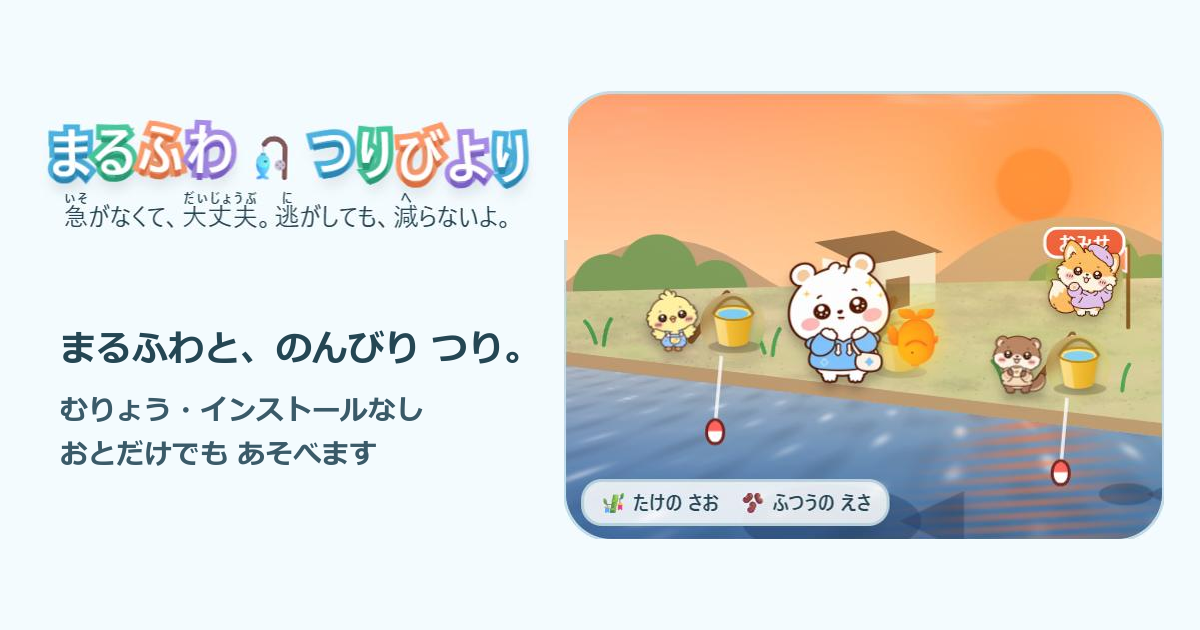
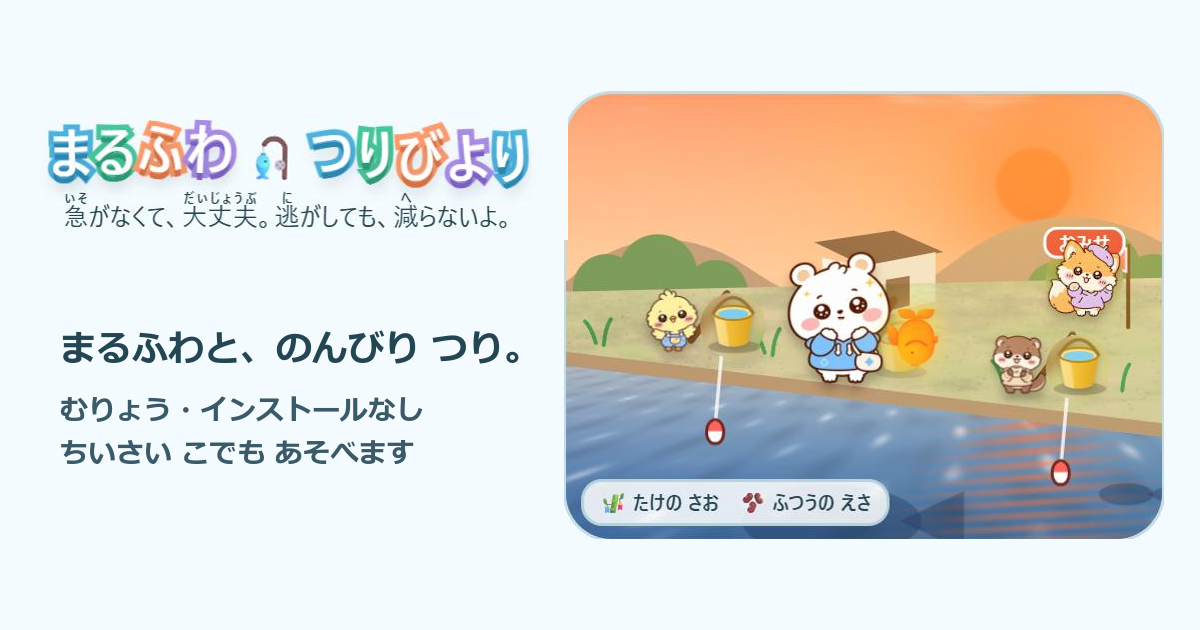
意見を入れる・その2：連打と狙いの釣り合い、最初の1匹、おいわい、まぼろしの日
- ひいた後に短い「ぷにっ」休み。連打しても速くならない（連打2.1秒・狙い3.1秒）
- 「おしい」が続くと窓が広がる、「ぴったり」で戻る
- 「ぴったり」のはんこ、1つ多く引ける
- 最初の1匹はすぐ来て、すぐ釣れる。かかる前に「ちょんちょん」
- 「なげる」を画面の下に留める。場所は折りたたむ
- きりのいい数のおいわい（10・30・50・100・300・500・1000）
- まぼろしの日（月に1日）、30種そろえた人は会いやすい、きょうのラッキーさかな
- 新しい釣り場が開いたら、そのまま行けるボタン
- スペース・エンターで投げる・引く。音の釣り合いを直す。読み仮名を大きく
- リンクの絵の文を「ちいさい こでも あそべます」に

Changed region(s): [[0.0308, 0.6937, 0.3392, 0.754]]

diff --git a/index.html b/index.html
@@ -99,9 +99,9 @@ main{position:relative;background:#f4fbff;border-radius:32px;margin-top:10px;mar
 #take-photo[hidden]{display:none}
 /* ながめる：ボタンを しまって、けしきだけ。なにも しなくて いい じかん */
 #gaze{--c1:#eee6ff;--c2:#b9a2ee;--side:#8a6bd0;--ink:#33205f;min-height:68px;padding:4px 14px;font-size:.95rem}
-body.gazing main > *:not(#scene):not(.actions):not(#status){display:none !important}
+body.gazing main > *:not(#scene):not(.sub-actions):not(#status){display:none !important}
 body.gazing main{background:none;box-shadow:none;padding-top:4vh}
-body.gazing #main-button,body.gazing #take-photo{display:none}
+body.gazing #take-photo,body.gazing #easy{display:none}
 body.gazing .actions{justify-content:center;margin-top:14px}
 body.gazing #gaze{min-height:52px;opacity:.85}
 body.gazing #status{color:#244653;background:#ffffffc9;border-radius:14px;padding:4px 10px;display:inline-block}
@@ -251,6 +251,14 @@ body.gazing #scene{box-shadow:0 18px 40px #24465340}
 #easy[aria-pressed=true]{--c1:#c9f7e4;--c2:#4fcf96;--side:#2b8f5f}
 #scene[data-easy=true] #reel .ring{display:none}
 #scene[data-easy=true] #reel .target{background:#ffe14dd9;box-shadow:0 0 0 5px #fff6a8,0 0 22px 8px #ffd34d}
+/* ぷにっ やすみ：ひいた あとの みじかい あいだ、わと ボタンが すこし つぶれて、うすく なる */
+#reel[data-rest=true] .back{scale:.94 .9;transition:scale .08s}
+#reel[data-rest=true] .ring{opacity:.45}
+#main-button[data-rest=true]{transform:translateY(4px) scale(.98,.93);filter:saturate(.6) brightness(1.08)}
+#go-area{--c1:#c9f7e4;--c2:#6fdcb0;--side:#38a87e;--ink:#0f4a36;min-height:40px;padding:2px 14px;font-size:.85rem;margin-top:3px}
+#go-area[hidden]{display:none}
+#card .stamp{display:inline-block;margin:1px 2px;padding:0 8px;border-radius:10px;background:#ffe14d;border:2px solid #a56c19;color:#593700;font-weight:900;font-size:.74rem;rotate:-3deg}
+@media(max-width:380px){#areas{grid-template-columns:repeat(2,1fr)}}
 #swim-tag{position:absolute;left:50%;top:-16%;transform:translateX(-50%);white-space:nowrap;font-weight:900;font-size:.78rem;color:#fff;background:#17323dcc;border-radius:10px;padding:1px 9px}
 .menu-label{font-weight:800;font-size:.85rem;margin:14px 0 6px;color:#3a5a68}
 .keep{margin-top:8px}
@@ -283,7 +291,14 @@ body.gazing #scene{box-shadow:0 18px 40px #24465340}
 #main-button[data-hot=true]{--c1:#ffa98f;--c2:#ee5a3c;--side:#b23a20;text-shadow:0 2px 0 #9a2f18}
 #status{min-height:1.7em;text-align:center;margin:10px 0 0;font-size:.95rem}
 .note{text-align:center;font-size:.85rem;color:#506874;line-height:2.3;margin-top:18px}
-rt{font-size:.5em;letter-spacing:.02em;font-weight:700}
+rt{font-size:.62em;letter-spacing:.02em;font-weight:700}
+.lead{font-size:1rem}
+#float[data-nibble=true]{animation:nibble .22s ease-in-out 3 !important}
+@keyframes nibble{50%{translate:0 6px}}
+/* 「なげる」は、がめんの したに とめる。スクロール しても、つれた あとも、おなじ ばしょに ある */
+.actions{position:sticky;bottom:0;z-index:8;padding:10px 0 12px;margin:6px 0 0;background:linear-gradient(#f4fbff00,#f4fbff 28%)}
+.sub-actions{display:flex;flex-wrap:wrap;gap:12px;margin:4px 0 6px}
+body.gazing .sub-actions{justify-content:center;margin-top:14px}
 .lead{line-height:2.1}
 #card h2{line-height:1.75}
 #guide img{width:34px;height:34px;filter:drop-shadow(0 2px 2px #0004)}
@@ -432,6 +447,7 @@ dialog .close{display:block;margin:auto;min-width:160px}
       <div class="fish" id="card-fish" aria-hidden="true"></div>
       <div class="line"><h2 id="card-name"></h2><p id="card-size"></p></div>
       <p id="card-tags"></p>
+      <button id="go-area" type="button" hidden></button>
       <p id="card-word"></p>
     </div>
   </div>
@@ -442,7 +458,7 @@ dialog .close{display:block;margin:auto;min-width:160px}
     <button id="easy" type="button" aria-pressed="false">らくちん：OFF</button>
     <button id="gaze" type="button" aria-pressed="false">ながめる</button>
   </div>
-  <p id="status" role="status" aria-live="polite">きいろい バケツを おすと、ばしょを かえられるよ。</p>
+  <p id="status" role="status" aria-live="polite">「なげる」を おしてね。</p>
 
   <p class="note"><ruby>時間<rt>じかん</rt></ruby>で <ruby>出<rt>で</rt></ruby>やすい <ruby>魚<rt>さかな</rt></ruby>が <ruby>変<rt>か</rt></ruby>わるよ（<ruby>朝<rt>あさ</rt></ruby>・<ruby>昼<rt>ひる</rt></ruby>・<ruby>夕方<rt>ゆうがた</rt></ruby>・<ruby>夜<rt>よる</rt></ruby>）。<br>
   <ruby>記録<rt>きろく</rt></ruby>は この <ruby>端末<rt>たんまつ</rt></ruby>の <ruby>中<rt>なか</rt></ruby>だけに <ruby>残<rt>のこ</rt></ruby>ります。ログインも インストールも いりません。<br>
@@ -539,7 +555,13 @@ dialog .close{display:block;margin:auto;min-width:160px}
   [['つきあかりのきんぎょ', '🐠', 20, 40, 'L', '{月明|つきあ}かりの{金魚|きんぎょ}'], ['ほしくずのこい', '🐟', 60, 120, 'R', '{星屑|ほしくず}の{鯉|こい}'],
     ['しんじゅのたい', '🐠', 40, 90, 'H', '{真珠|しんじゅ}の{鯛|たい}'], ['にじいろくじら', '🐳', 300, 600, 'B', '{虹色|にじいろ}{鯨|くじら}']
   ].forEach(([name, icon, min, max, area, kanji]) => FISH.push({id: FISH.length, name, icon, min, max, rare: 5, time: '', area, kanji, legend: true}));
-  const BASE = FISH.filter(f => !f.legend).length, LEGEND_ODDS = 1 / 8000;
+  // まぼろしの ひ：つきに 1にち だけ、まぼろしが でやすい（60かいに 1かい）。ひづけで きまるので、みんな おなじ ひ
+  const calendar = new Date(), mythDay = new URLSearchParams(location.search).get('mythday') === '1' || calendar.getDate() === (calendar.getFullYear() * 12 + calendar.getMonth()) * 5 % 27 + 1;
+  const BASE = FISH.filter(f => !f.legend).length, LEGEND_ODDS = mythDay ? 1 / 60 : 1 / 8000;
+  // きりの いい かずの おいわい。かずに よって、おこる ことが ちがう
+  const MILES = {10: ['👏', '10ぴきめ！ なかまが はくしゅ して いるよ。'], 30: ['🌸', '30ぴきめ！ はなびらが まって きたよ。'], 50: ['🎈', '50ぴきめ！ ふうせんが あがったよ。'], 100: ['🎆', '100ぴきめ！ はなびが あがったよ。'], 300: ['🌈', '300ぴきめ！ にじいろの かみふぶき だよ。'], 500: ['⭐', '500ぴきめ！ ほしが ふって きたよ。'], 1000: ['👑', '1000びきめ！ もう、つりの めいじんだね。']};
+  // きょうの ラッキーさかな：ひづけで きまる（みんな おなじ）。その こが 4ばい でやすい。「きょうは ○○の ひ」と、はなしの たねに なる
+  const LUCKY = FISH[(calendar.getFullYear() * 372 + calendar.getMonth() * 31 + calendar.getDate()) * 11 % BASE];
   const seenCount = () => Object.keys(save.fish).filter(id => FISH[id] && !FISH[id].legend).length;
   // {かんじ|よみ} を、ふりがなつきの もじに する
   function ruby(text) {
@@ -600,14 +622,16 @@ dialog .close{display:block;margin:auto;min-width:160px}
     // じかんの ふだは「でる／でない」では なく「でやすい／でにくい（3ばい）」。ゲーム開発司令部の てんけんで、
     // じかんに よっては 2〜3しゅるいしか でない わくが 9つ あった ため
     const myth = FISH.find(f => f.legend && f.area === save.area);
-    if (myth && (query.get('legend') === '1' || Math.random() < LEGEND_ODDS)) { wish = false; return myth; }
+    // シールちょうを 30しゅるい そろえた ひとは、まぼろしに あいやすく なる（25かいに 1かい）。だれも あえない ままに しない
+    const odds = seenCount() >= BASE ? Math.max(LEGEND_ODDS, 1 / 25) : LEGEND_ODDS;
+    if (myth && (query.get('legend') === '1' || Math.random() < odds)) { wish = false; return myth; }
     const now = timeOfDay(), here = FISH.filter(f => f.area === save.area && !f.legend);
     const wanted = Number(query.get('rare')); if (wanted) { const only = here.filter(f => f.rare === wanted); if (only.length) return only[0]; }   // けんさよう
     // やさしい ほしょう：しってる こが 5かい つづいたら、つぎは まだ あってない こ
     const unseen = here.filter(f => !save.fish[f.id]), wished = wish && here.some(f => f.rare >= 3);
     const pool = wished ? here.filter(f => f.rare >= 3) : (save.streak || 0) >= 5 && unseen.length ? unseen : here;
     wish = false;
-    const weight = f => WEIGHT[f.rare] * (save.bait === 1 && f.rare >= 3 ? 2.5 : 1) * (rainy && f.rare >= 3 ? 1.5 : 1) * (!f.time || f.time.includes(now) ? 1 : 1 / 3);
+    const weight = f => WEIGHT[f.rare] * (f === LUCKY ? 4 : 1) * (save.bait === 1 && f.rare >= 3 ? 2.5 : 1) * (rainy && f.rare >= 3 ? 1.5 : 1) * (!f.time || f.time.includes(now) ? 1 : 1 / 3);
     let roll = Math.random() * pool.reduce((sum, f) => sum + weight(f), 0);
     for (const f of pool) { roll -= weight(f); if (roll <= 0) return f; }
     return pool[0];
@@ -696,7 +720,8 @@ dialog .close{display:block;margin:auto;min-width:160px}
       src.connect(vol).connect(ctx.destination); src.start(at); src.stop(at + length + .02);
     } catch {}
   }
-  const chord = (notes, gap = .07, type = 'square') => notes.forEach((note, i) => tone(note, gap * 1.05, type, i * gap));
+  const chord = (notes, gap = .07, type = 'square', loud = .05) => notes.forEach((note, i) => tone(note, gap * 1.05, type, i * gap, loud));
+  const FANFARE = .032;   // おいわいの おとは ひかえめに（あんないの おとが きこえる ように。ジョブズ1の そくてい）
   function buzz(pattern) { try { if (navigator.vibrate) navigator.vibrate(pattern); } catch {} }
   // なみの おと。ざざーん…と、ゆっくり よせて かえす。あめの ひは、あめの おとも
   let ambient = null;
@@ -719,7 +744,7 @@ dialog .close{display:block;margin:auto;min-width:160px}
   }
   function stopAmbient() { if (ambient) ambient.forEach(node => { try { node.stop(); } catch {} }); ambient = null; }
   document.addEventListener('visibilitychange', () => { if (document.hidden) stopAmbient(); else startAmbient(); });
-  function drawSound() { const on = !!save.sound; $('sound').textContent = on ? 'おと：ON' : 'おと：OFF'; $('sound').setAttribute('aria-pressed', String(on)); }
+  function drawSound() { const on = !!save.sound; $('sound').textContent = on ? 'おと：ON' : 'おと：OFF（おすすめ）'; $('sound').setAttribute('aria-pressed', String(on)); }
   $('sound').addEventListener('click', () => { save.sound = !save.sound; store(); drawSound(); if (!save.sound) stopAmbient(); if (save.sound) { startAmbient(); chord([523, 784], .09, 'triangle'); say('おとを つけたよ。わが ちかづくと おとが たかく なって、「ピコン」で おしてね。'); } else say('おとを けしたよ。'); });
   // およぎの くせ。さかなに よって、わの うごきかたが ちがう。p は 1しゅうの なかの いま（0〜1）、かえす あたいは わの おおきさ（1〜0）
   const TARGET = .3;
@@ -731,13 +756,14 @@ dialog .close{display:block;margin:auto;min-width:160px}
     pitatto: {name: 'ぴたっと', tip: 'とちゅうで、いちど とまるよ', f: p => p < .34 ? 1 - p * 1.18 : p < .58 ? .6 : .6 * (1 - (p - .58) / .42)}
   };
   const swimOf = f => f.legend ? 'yuttari' : f.rare === 1 ? ['yuttari', 'yurari'][f.id % 2] : f.rare === 2 ? ['yurari', 'guigui', 'yuttari'][f.id % 3] : f.rare === 3 ? ['guigui', 'furafura', 'pitatto'][f.id % 3] : ['furafura', 'pitatto'][f.id % 2];
-  let swim = SWIMS.yurari, hitAt = 0, perfects = 0, spinning = 0;
+  let swim = SWIMS.yurari, hitAt = 0, perfects = 0, spinning = 0, misses = 0, restUntil = 0;
   const cycleTime = () => (performance.now() - ringStart) % period;
   const ringSize = () => swim.f(cycleTime() / period);
   // 「いまだ」までの じかんの ずれ（ミリびょう）。まえでも あとでも、ちかい ほうを かえす
   function offBeat() { let gap = cycleTime() - hitAt; if (gap > period / 2) gap -= period; if (gap < -period / 2) gap += period; return gap; }
   // まどの ひろさ（ミリびょう）。さかなが まんなかに きた とき・いい さお ほど ひろい。いちばん せまくても 0.12びょう
-  function windowMs() { const lap = ((performance.now() - wanderStart) / 1400) % 2, away = Math.abs(lap < 1 ? 2 * lap - 1 : 3 - 2 * lap); return Math.max(120, (.06 + .1 * (1 - away) + save.rod * .025) * period); }
+  // 「おしい」が つづく ほど、まどが すこしずつ ひろがる（1かいで 0.03びょう、さいだい 0.24びょう）。「ぴったり」で もとに もどる。きりかえ なしで、だれにでも きく
+  function windowMs() { const lap = ((performance.now() - wanderStart) / 1400) % 2, away = Math.abs(lap < 1 ? 2 * lap - 1 : 3 - 2 * lap); return Math.max(120, (.06 + .1 * (1 - away) + save.rod * .025) * period) + Math.min(240, misses * 30); }
   function startGuide() {
     // うごきを へらす せっていでも、おとの あんないは とめない（めが みえなくて、うごきも へらしたい ひとの ため）
     stopGuide(); if (!save.sound || save.easy) return;
@@ -747,8 +773,8 @@ dialog .close{display:block;margin:auto;min-width:160px}
     guide = setInterval(() => {
       if (phase !== 'reel') return stopGuide();
       const now = cycleTime(), passed = mark => before <= now ? before < mark && mark <= now : mark > before || mark <= now;
-      if (gap) pitches.forEach((pitch, i) => { if (passed(pikon - gap * (4 - i))) tone(pitch, .05, 'triangle', 0, .05); });
-      if (passed(pikon)) chord([988, 1319], .07);   // いまだ：ピコン
+      if (gap) pitches.forEach((pitch, i) => { if (passed(pikon - gap * (4 - i))) tone(pitch, .05, 'triangle', 0, [.11, .0925, .0825, .0725][i]); });   // ひくい おとほど、おおきく（きこえかたを そろえる）
+      if (passed(pikon)) chord([988, 1319], .07, 'square', .075);   // いまだ：ピコン
       before = now;
     }, 15);
   }
@@ -781,7 +807,8 @@ dialog .close{display:block;margin:auto;min-width:160px}
     tone(220, .28, 'square', .2, .04, 880); tone(330, .1, 'triangle', .9, .06, 110); zap(.14, .9);   // ヒュ〜ッ…ポチャ
     button.textContent = 'まってる…'; button.disabled = true; button.dataset.hot = 'false';
     say('ぽちゃん。のんびり まとう。');
-    const wait = Number(query.get('wait')) || (2200 + Math.random() * 3300);
+    // さいしょの 1ぴきは、すぐに くる（はじめての ひとを またせない）
+    const wait = Number(query.get('wait')) || (save.total === 0 ? 1300 : 2200 + Math.random() * 3300);
     // かげが みぎから およいで くる。おおきさは さかなの おおきさ、いろは めずらしさ
     const shadow = $('shadow'), w = floatAt(mine);
     nushi = Math.random() < (Number(query.get('nushi')) || .04 * (save.bait === 2 ? 2 : 1));
@@ -789,7 +816,9 @@ dialog .close{display:block;margin:auto;min-width:160px}
     shadow.style.setProperty('--w', Math.min(44, Math.max(8, 7 + fish.max / 12) * (nushi ? 1.7 : 1)) + '%');
     shadow.style.setProperty('--swim', '0s'); place(shadow, {x: 112, y: Math.min(95, w.y + 9)}); void shadow.offsetWidth;
     shadow.style.setProperty('--swim', wait + 'ms'); place(shadow, {x: w.x + 4, y: Math.min(95, w.y + 4)});
-    setTimeout(bite, wait);
+    // かかる まえの「ちょんちょん」。ウキが ちいさく ゆれて、もうすぐ くると わかる
+    setTimeout(() => { if (phase === 'waiting') { $('float').dataset.nibble = 'true'; tone(660, .04, 'triangle', 0, .04); tone(660, .04, 'triangle', .22, .04); say('ちょん、ちょん…。なにか きたかも。'); } }, Math.max(0, wait - 750));
+    setTimeout(() => { delete $('float').dataset.nibble; bite(); }, wait);
   }
   // なげる うごき：うしろに そって、えいっと ふって、ウキが ゆみなりに とんで、ぽちゃん
   function throwRod() {
@@ -817,8 +846,9 @@ dialog .close{display:block;margin:auto;min-width:160px}
   }
   function startReel() {
     hpMax = hp = 3 + fish.rare * 2 + (nushi ? 5 : 0); period = 1850 - fish.rare * 250;
+    if (save.total === 0) { hpMax = hp = 3; period = 1700; }   // さいしょの 1ぴきは、かならず すぐ つれる
     if (fish.legend) { hpMax = hp = 7; period = 1500; }   // まぼろしは、でて きたら つれる。わは ゆっくり
-    swim = SWIMS[SWIMS[query.get('swim')] ? query.get('swim') : swimOf(fish)]; perfects = 0;
+    swim = SWIMS[SWIMS[query.get('swim')] ? query.get('swim') : swimOf(fish)]; perfects = 0; misses = 0; restUntil = 0;
     // 「いまだ」の とき：わが まとの おおきさに なる さいしょの とき
     hitAt = period; for (let step = 0; step <= 400; step++) if (swim.f(step / 400) <= TARGET) { hitAt = step / 400 * period; break; }
     ringStart = performance.now();
@@ -835,10 +865,15 @@ dialog .close{display:block;margin:auto;min-width:160px}
   }
   function pull() {
     // 「いまだ」との じかんの ずれで きめる（えがく しくみに たよらない。わの うごきかたが ちがっても、おなじ ものさし）
+    // ひいた あとは、みじかい「ぷにっ」やすみ。れんだ しても はやく ならない（ねらう ひとと、おなじ くらいの はやさ）。やすみの あいだの タップは、なにも おきない だけ
+    if (performance.now() < restUntil) return;
     const miss = Math.abs(offBeat()), easy = windowMs();
     const blind = save.easy || (reduce() && !save.sound);   // らくちん、または、わも おとも ない とき：タイミングを みない
     const power = blind ? 2 : miss <= easy ? 3 : miss <= easy + .12 * period ? 2 : 1;
-    if (power === 3) perfects++;
+    if (power === 3) { perfects++; misses = 0; hp = Math.max(0, hp - 1); } else if (power === 1) misses++;   // 「ぴったり」は 1つ おおく ひける
+    const rest = blind ? 320 : Math.max(320, period * .45);   // やすみは、どの ひきかたでも おなじ ながさ
+    restUntil = performance.now() + rest; $('reel').dataset.rest = 'true'; button.dataset.rest = 'true';
+    setTimeout(() => { delete $('reel').dataset.rest; delete button.dataset.rest; }, rest);
     // つづけて うまく いくと、すこし つよく ひける。はずしても へらない（かぞえなおすだけ）
     combo = power >= 2 ? combo + 1 : 0;
     hp = Math.max(0, hp - power - (combo >= 3 ? 1 : 0));
@@ -865,6 +900,17 @@ dialog .close{display:block;margin:auto;min-width:160px}
       star.animate([{translate: '-50% -50%', scale: '.4', opacity: 1}, {translate: (Math.cos(angle) * far - 6) + 'px ' + (Math.sin(angle) * far - 6) + 'px', scale: '1.3', opacity: 0}], {duration: 620, easing: 'ease-out'}).onfinish = () => star.remove();
     }
   }
+  // おいわい。けしきの うえから、ゆっくり まって くる（うごきを へらす せっていでは、しずかに ならぶだけ）
+  function party(icon) {
+    chord([523, 659, 784, 1047, 1319, 1047, 1319, 1568], .1, 'square', FANFARE);
+    for (let i = 0; i < 16; i++) {
+      const bit = document.createElement('span'); bit.className = 'hop'; bit.textContent = icon; bit.setAttribute('aria-hidden', 'true');
+      bit.style.zIndex = '7'; bit.style.fontSize = (1 + Math.random() * .9) + 'rem'; place(bit, {x: 6 + i * 5.8, y: reduce() ? 44 : -6}); scene.append(bit);
+      if (reduce()) { setTimeout(() => bit.remove(), 4000); continue; }
+      const drop = scene.clientHeight * (.7 + Math.random() * .35), sway = (Math.random() - .5) * 60;
+      bit.animate([{translate: '0 0', rotate: '0deg', opacity: 0}, {opacity: 1, offset: .1}, {translate: sway + 'px ' + drop * .6 + 'px', rotate: '140deg', opacity: 1, offset: .7}, {translate: sway * 1.4 + 'px ' + drop + 'px', rotate: '240deg', opacity: 0}], {duration: 3200 + Math.random() * 1600, delay: Math.random() * 900, easing: 'ease-in', fill: 'backwards'}).onfinish = () => bit.remove();
+    }
+  }
   function puff() {
     const reel = $('reel');
     for (let i = 0; i < 4; i++) {
@@ -876,9 +922,9 @@ dialog .close{display:block;margin:auto;min-width:160px}
   function caught() {
     stopGuide();
     // つれた：むかしの ゲームの「てに いれた！」ふう。ぬしと スペシャルは、ながい ファンファーレ
-    if (fish.legend) { chord([523, 659, 784, 1047, 1319, 1568, 2093, 1568, 2093, 2637], .09); tone(3136, .8, 'square', .95, .04); [262, 330, 392, 523].forEach((low, i) => tone(low, .2, 'triangle', .2 + i * .2, .05)); }
-    else if (nushi || fish.rare === 4) { chord([523, 659, 784, 1047, 784, 1047, 1319, 1568], .085); tone(2093, .5, 'square', .7, .045); [262, 330, 392].forEach((low, i) => tone(low, .16, 'triangle', .7 + i * .16, .05)); }
-    else { chord([784, 988, 1175, 1568], .075); tone(1568, .22, 'square', .3, .045); tone(392, .3, 'triangle', .3, .05); }
+    if (fish.legend) { chord([523, 659, 784, 1047, 1319, 1568, 2093, 1568, 2093, 2637], .09, 'square', FANFARE); tone(3136, .8, 'square', .95, .026); [262, 330, 392, 523].forEach((low, i) => tone(low, .2, 'triangle', .2 + i * .2, .032)); }
+    else if (nushi || fish.rare === 4) { chord([523, 659, 784, 1047, 784, 1047, 1319, 1568], .085, 'square', FANFARE); tone(2093, .5, 'square', .7, .028); [262, 330, 392].forEach((low, i) => tone(low, .16, 'triangle', .7 + i * .16, .032)); }
+    else { chord([784, 988, 1175, 1568], .075, 'square', FANFARE); tone(1568, .22, 'square', .3, .028); tone(392, .3, 'triangle', .3, .032); }
     buzz(nushi ? [80, 60, 80, 60, 200] : 120);
     const range = fish.max - fish.min;
     // ねらって「ぴったり」を だした ぶん、すこし おおきい こが つれる（1かいで 2.5%、さいだい 10%）。れんだ より、ねらう ほうが とく
@@ -899,11 +945,18 @@ dialog .close{display:block;margin:auto;min-width:160px}
     $('card-size').replaceChildren(cm(size) + ' センチ　', stars);
     if (found) gift.push(found + '（さかなが もって いたよ）');
     const tags = [];
+    if (fish === LUCKY) tags.push('きょうの ラッキー'); if (save.fish[fish.id].count === 10) tags.push('10ぴきめ！ なかよし');
     if (nushi) tags.push('ぬし'); if (first) tags.push('はじめて！'); if (record) tags.push('じぶんの きろく！'); if (big) tags.push('おおもの'); if (RARE_LABEL[fish.rare]) tags.push(RARE_LABEL[fish.rare]);
     $('card-tags').replaceChildren(...tags.map(text => { const tag = document.createElement('span'); tag.className = 'tag'; tag.textContent = text; return tag; }));
+    // 「ぴったり」の ごほうび：はんこが おされる
+    if (perfects >= 2) { const stamp = document.createElement('span'); stamp.className = 'stamp'; stamp.textContent = 'ぴったり ×' + perfects; $('card-tags').append(stamp); tags.push('ぴったり ×' + perfects); }
+    // あたらしい つりばが ひらいたら、そのまま いける ボタンを だす
+    const opened = AREAS.find(a => a.need > 0 && a.need === save.total), go = $('go-area');
+    go.hidden = !opened; if (opened) { go.textContent = opened.name + 'に いって みる？'; go.dataset.area = opened.id; }
     // あんないの ペンギンが、まいかい ひとこと
     const left = BASE - seenCount();
-    $('guide-word').textContent = fish.legend ? 'まぼろしの こだ…！ ほんとうに いたんだ。' : nushi ? (firstNushi ? 'ぬしだよ！ すごい、すごい。' : 'また ぬしだ！') : fish.rare === 4 ? 'スペシャルな こだよ！' : first && left === 0 ? 'ずかんが ぜんぶ うまったよ！' : first && left <= 5 ? 'ずかん かんせいまで、あと ' + left + 'しゅるい！' : found ? 'なにか もって いたみたい！' : first ? 'はじめまして、だね。' : record ? 'きろくが のびたね！' : 'いい こが つれたね。';
+    const mile = MILES[save.total]; if (mile) party(mile[0]);
+    $('guide-word').textContent = mile ? mile[1] : fish.legend ? 'まぼろしの こだ…！ ほんとうに いたんだ。' : nushi ? (firstNushi ? 'ぬしだよ！ すごい、すごい。' : 'また ぬしだ！') : fish.rare === 4 ? 'スペシャルな こだよ！' : first && left === 0 ? 'ずかんが ぜんぶ うまったよ！' : first && left <= 5 ? 'ずかん かんせいまで、あと ' + left + 'しゅるい！' : found ? 'なにか もって いたみたい！' : first ? 'はじめまして、だね。' : record ? 'きろくが のびたね！' : 'いい こが つれたね。';
     $('card-word').textContent = gift.length ? 'あたらしく ふえたよ：' + gift.join('、') : '';
     face(nushi || fish.rare >= 4 ? 'sparkle' : fish.rare === 3 ? 'apricot' : first ? 'mint' : 'smile');
     last = {fish, size, nushi, tags: [...tags], area: areaName(save.area), at: new Date()};
@@ -935,6 +988,12 @@ dialog .close{display:block;margin:auto;min-width:160px}
     else if (phase === 'reel') pull();
   }
   button.addEventListener('click', act);
+  // キーボード：スペースか エンターで、なげる・ひく（ボタンや もじの いれものに いる ときは、その うごきを じゃま しない）
+  document.addEventListener('keydown', event => {
+    if ((event.key !== ' ' && event.key !== 'Enter') || event.repeat || document.querySelector('dialog[open]')) return;
+    if (event.target.closest && event.target.closest('button, a, input, textarea, summary, select')) return;
+    event.preventDefault(); if (!button.disabled) act();
+  });
   // わや みずを じかに おしても、ひける
   scene.addEventListener('click', event => { if ((phase === 'bite' || phase === 'reel') && !event.target.closest('button')) act(); });
   document.addEventListener('visibilitychange', () => { if (!document.hidden && phase === 'reel') ringStart = performance.now(); });
@@ -966,6 +1025,7 @@ dialog .close{display:block;margin:auto;min-width:160px}
   // つりばを えらぶ
   const areaName = id => AREAS.find(a => a.id === id).name;
   function drawAreas() {
+    if ($('area-now')) $('area-now').textContent = areaName(save.area);
     $('areas').replaceChildren(...AREAS.map(area => {
       const tab = document.createElement('button'), open = save.total >= area.need;
       tab.type = 'button'; tab.textContent = area.name; tab.disabled = !open || !(phase === 'idle' || phase === 'caught');
@@ -996,6 +1056,12 @@ dialog .close{display:block;margin:auto;min-width:160px}
       return tab;
     }));
   }
+  $('go-area').addEventListener('click', event => {
+    event.stopPropagation(); const area = AREAS.find(a => a.id === $('go-area').dataset.area); if (!area || save.total < area.need) return;
+    save.area = area.id; store(); scene.dataset.area = area.id; $('held').hidden = $('held-friend').hidden = true; callPals();
+    setPhase('idle'); face('blue'); button.textContent = 'なげる'; button.dataset.hot = 'false'; button.disabled = false;
+    say(area.name + 'に ついたよ。きょうは ' + pals[0].name + 'と ' + pals[1].name + 'が いるよ。');
+  });
   function drawEquip() { $('equip').textContent = RODS[save.rod].icon + ' ' + RODS[save.rod].name + '　' + BAITS[save.bait].icon + ' ' + BAITS[save.bait].name; }
 
   // おみせ。うでまえを みて、こえを かけて くれる（くらべない。ほめるだけ）
@@ -1061,9 +1127,9 @@ dialog .close{display:block;margin:auto;min-width:160px}
     ctx.font = '28px system-ui,sans-serif'; ctx.fillText((last.at.getMonth() + 1) + '/' + last.at.getDate() + '　' + last.area, 920, 160, 440);
     ctx.textAlign = 'left'; ctx.fillStyle = '#fff'; ctx.shadowColor = '#0006'; ctx.shadowBlur = 6;
     ctx.font = 'bold 32px system-ui,sans-serif'; ctx.fillText('つれた かず ' + save.total + '　シールちょう ' + seenCount() + ' / ' + BASE, 46, 596);
-    ctx.font = 'bold 28px system-ui,sans-serif'; ctx.fillText('#まるふわまるいろ　#つりびより', 46, 642);   // えの なかには さくしゃの なまえも URLも いれない
+    ctx.font = 'bold 28px system-ui,sans-serif'; ctx.fillText('#まるふわつりびより', 46, 642);   // えの なかには さくしゃの なまえも URLも いれない
     ctx.shadowBlur = 0;
-    const words = 'まるふわと つりを したよ。\n' + last.fish.name + '　' + cm(last.size) + 'センチ ' + starsOf(last.fish, last.nushi) + (last.tags.length ? '\n' + last.tags.join('・') : '') + '\n#まるふわまるいろ #つりびより\n' + HOME;
+    const words = 'まるふわと つりを したよ。\n' + last.fish.name + '　' + cm(last.size) + 'センチ ' + starsOf(last.fish, last.nushi) + (last.tags.length ? '\n' + last.tags.join('・') : '') + '\n#まるふわつりびより\n' + HOME;
     await showPhoto(canvas, 'marufuwa-tsuri-' + last.fish.id + '.png', last.fish.name + 'を かかげる まるふわの しゃしん', words);
   }
   // シールちょうの 1まい。あつめた シールが ならぶ。30しゅるい そろうと「ぜんぶ あつめた！」
@@ -1096,8 +1162,8 @@ dialog .close{display:block;margin:auto;min-width:160px}
       ctx.fillStyle = got ? '#244653' : '#9fb3bd'; ctx.textBaseline = 'alphabetic'; ctx.font = 'bold 21px system-ui,sans-serif'; ctx.fillText(got ? f.name : '', cx, cy + 96, cell - 10);
     });
     ctx.fillStyle = '#244653'; ctx.font = 'bold 34px system-ui,sans-serif'; ctx.fillText('まるふわ つりびより　つれた かず ' + save.total, 600, 1262);
-    ctx.font = 'bold 28px system-ui,sans-serif'; ctx.fillStyle = '#3a5a68'; ctx.fillText('#まるふわまるいろ　#つりびより', 600, 1310);
-    const words = (full ? 'シールちょう、ぜんぶ あつめた！ ' : 'シールちょう ' + seen + ' / ' + BASE + '。') + '\nまるふわと つりを したよ。\n#まるふわまるいろ #つりびより\n' + HOME;
+    ctx.font = 'bold 28px system-ui,sans-serif'; ctx.fillStyle = '#3a5a68'; ctx.fillText('#まるふわつりびより', 600, 1310);
+    const words = (full ? 'シールちょう、ぜんぶ あつめた！ ' : 'シールちょう ' + seen + ' / ' + BASE + '。') + '\nまるふわと つりを したよ。\n#まるふわつりびより\n' + HOME;
     await showPhoto(canvas, 'marufuwa-tsuri-seal-' + seen + '.png', 'あつめた シールが ならんだ シールちょうの しゃしん。' + seen + 'しゅるい', words);
   }
   async function showPhoto(canvas, fileName, alt, words) {
@@ -1322,7 +1388,11 @@ dialog .close{display:block;margin:auto;min-width:160px}
   // ならびじゅん：けしきと「なげる」を いちばん うえに。あまり つかわない ものは したへ（はじめての こが まよわない ように）
   {
     const rows = document.querySelectorAll('main > .hud'), label = text => { const p = document.createElement('p'); p.className = 'menu-label'; p.textContent = text; return p; };
-    status.after(label('つりばを えらぶ'), $('areas'), label('みる・いく'), rows[1], label('せってい'), rows[0], document.querySelector('.time-box'));
+    // ばしょは、ふだんは しまって おく。おすと、4つ ぜんぶ でる
+    const sub = document.createElement('div'); sub.className = 'sub-actions'; sub.append($('take-photo'), $('easy'), $('gaze')); document.querySelector('.actions').after(sub);
+    const where = document.createElement('details'), head = document.createElement('summary'), now = document.createElement('span');
+    where.className = 'time-box'; now.id = 'area-now'; head.append('ばしょを かえる（いま：', now, '）'); where.append(head, $('areas'));
+    status.after(where, label('みる・いく'), rows[1], label('せってい'), rows[0], document.querySelector('main > .time-box:not(:has(#areas))'));
   }
   // らくちん：タイミングを あわせなくて いい。おすだけで つれる。がめんの せっていを さわらなくても つかえる
   function drawEasy() { const on = !!save.easy; $('easy').textContent = on ? 'らくちん：ON' : 'らくちん：OFF'; $('easy').setAttribute('aria-pressed', String(on)); scene.dataset.easy = String(on); }
@@ -1332,7 +1402,10 @@ dialog .close{display:block;margin:auto;min-width:160px}
   spots.forEach(spot => spot.append($('bucket-art').content.cloneNode(true)));
   drawWater(performance.now()); drawSky(performance.now()); drawSoil();
   if (!reduce()) requestAnimationFrame(flow); else new MutationObserver(() => { lastDraw = lastSky = 0; drawWater(performance.now()); drawSky(performance.now()); drawSoil(); }).observe(scene, {attributes: true, attributeFilter: ['data-time', 'data-area']});
-  drawSound(); if (rainy) say('きょうは あめ。めずらしい こが でやすいよ。');
+  drawSound();
+  if (save.total === 0) say('「なげる」を おしてね。');
+  else if (mythDay) say('きょうは、なにかが いる きが する…。');
+  else say('きょうの ラッキーさかなは「' + LUCKY.name + '」。' + areaName(LUCKY.area) + 'に いるよ。' + (rainy ? 'きょうは あめ。' : ''));
   hud(); drawEquip(); setPhase('idle');
   setTimeout(chatter, Number(query.get('chat')) || 5000);
   window.Tsuri = {all: FISH, beat: () => ({hitAt, period, swim: swim.name, off: Math.round(offBeat()), window: Math.round(windowMs()), ring: ringSize()}), state: () => phase, fish: () => fish, hp: () => hp, spot: () => mine, friends: () => [...friends]};
